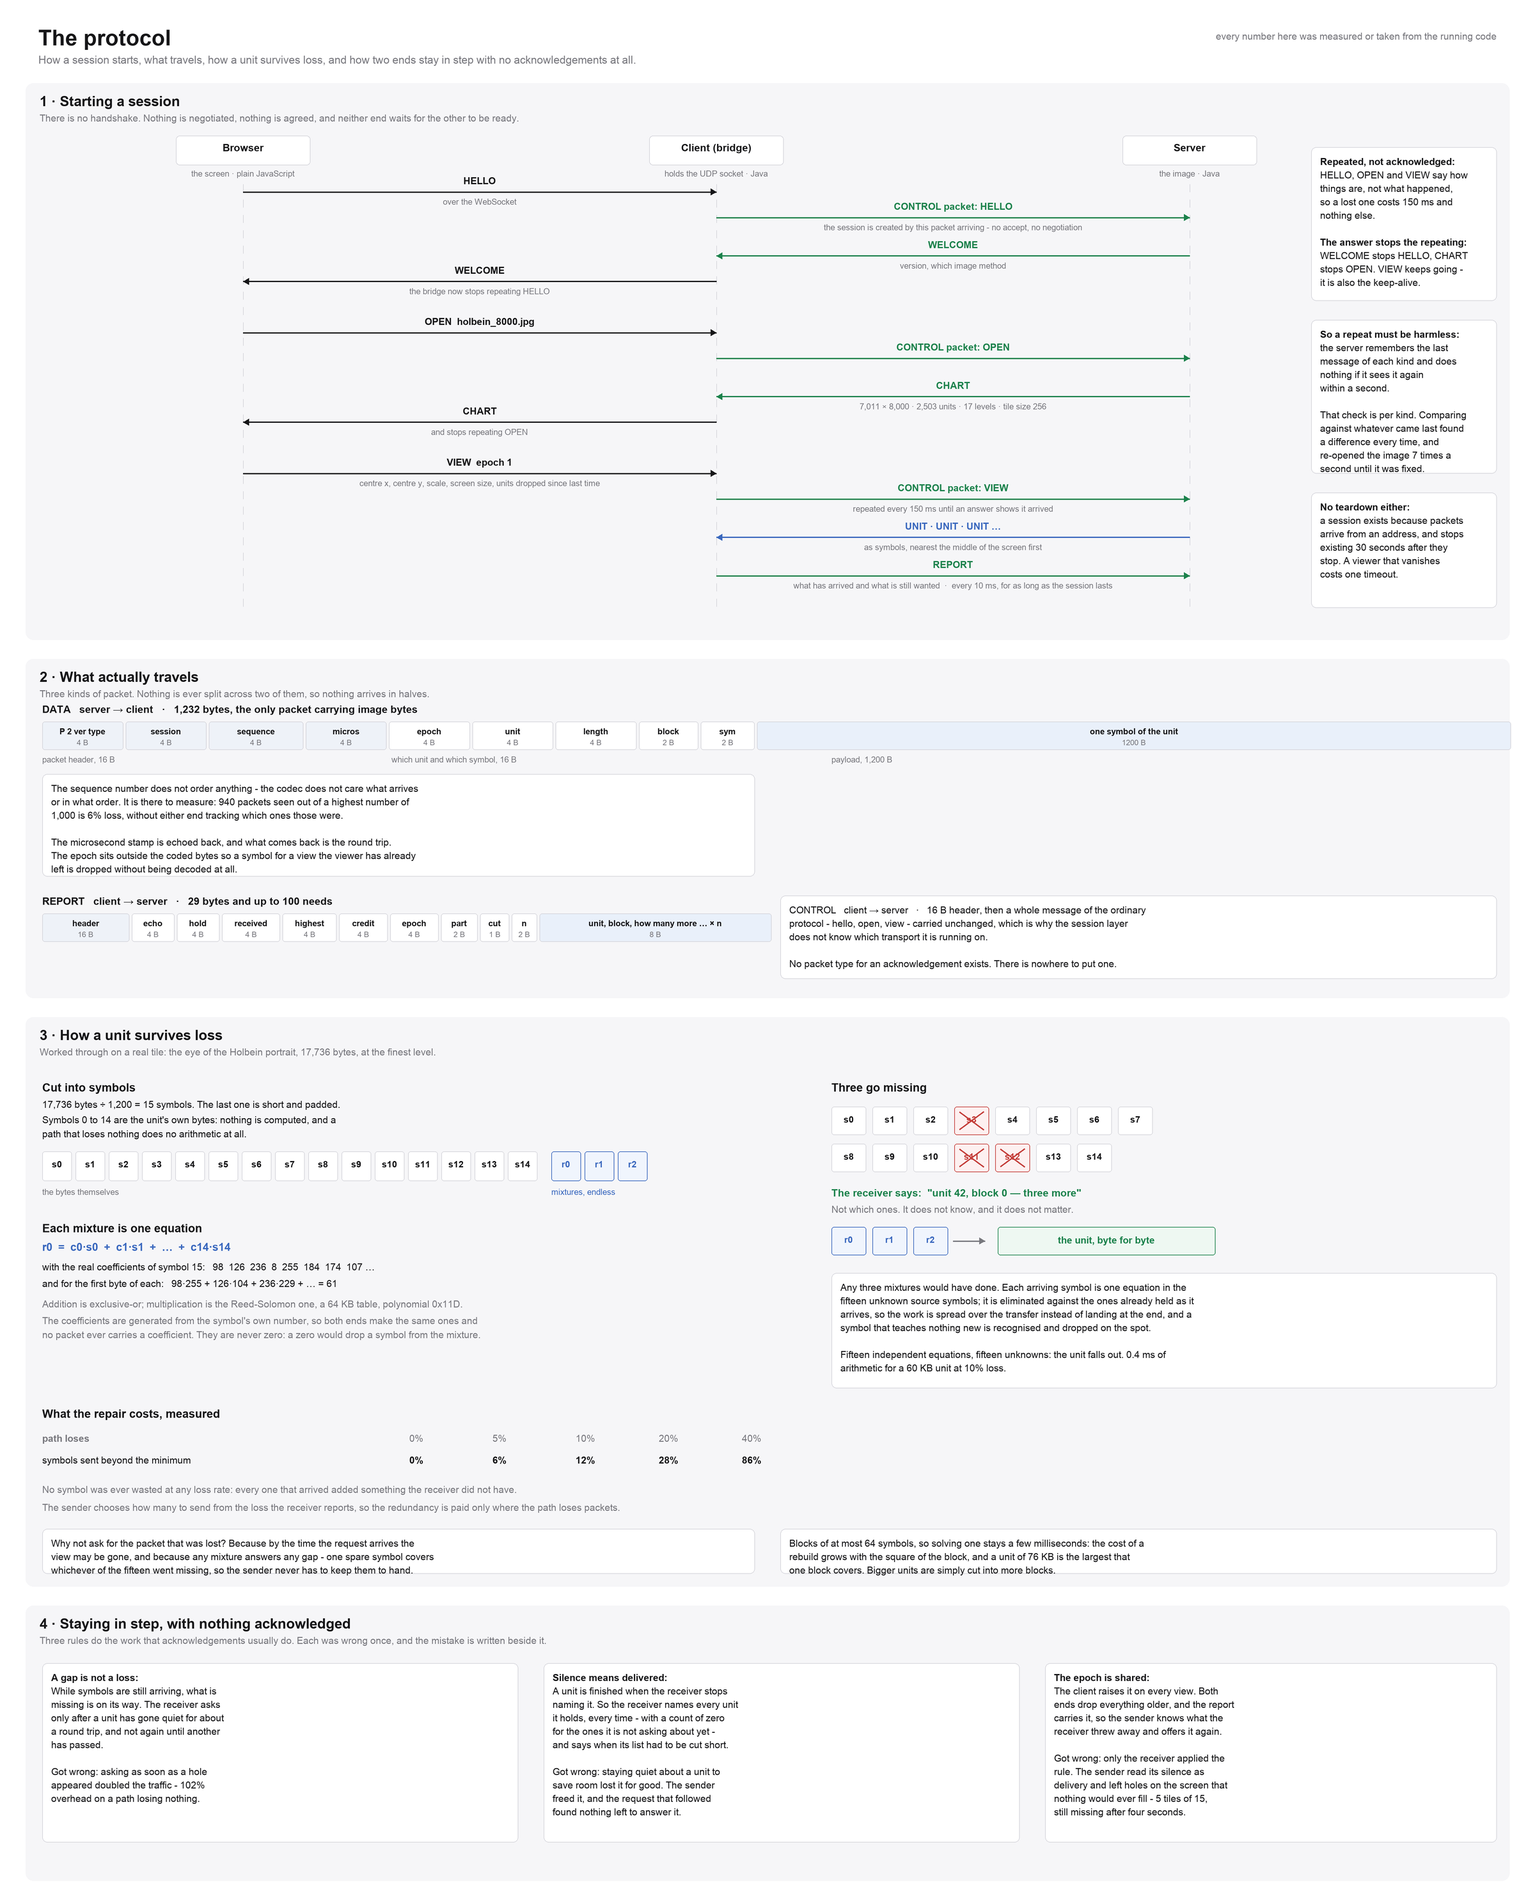
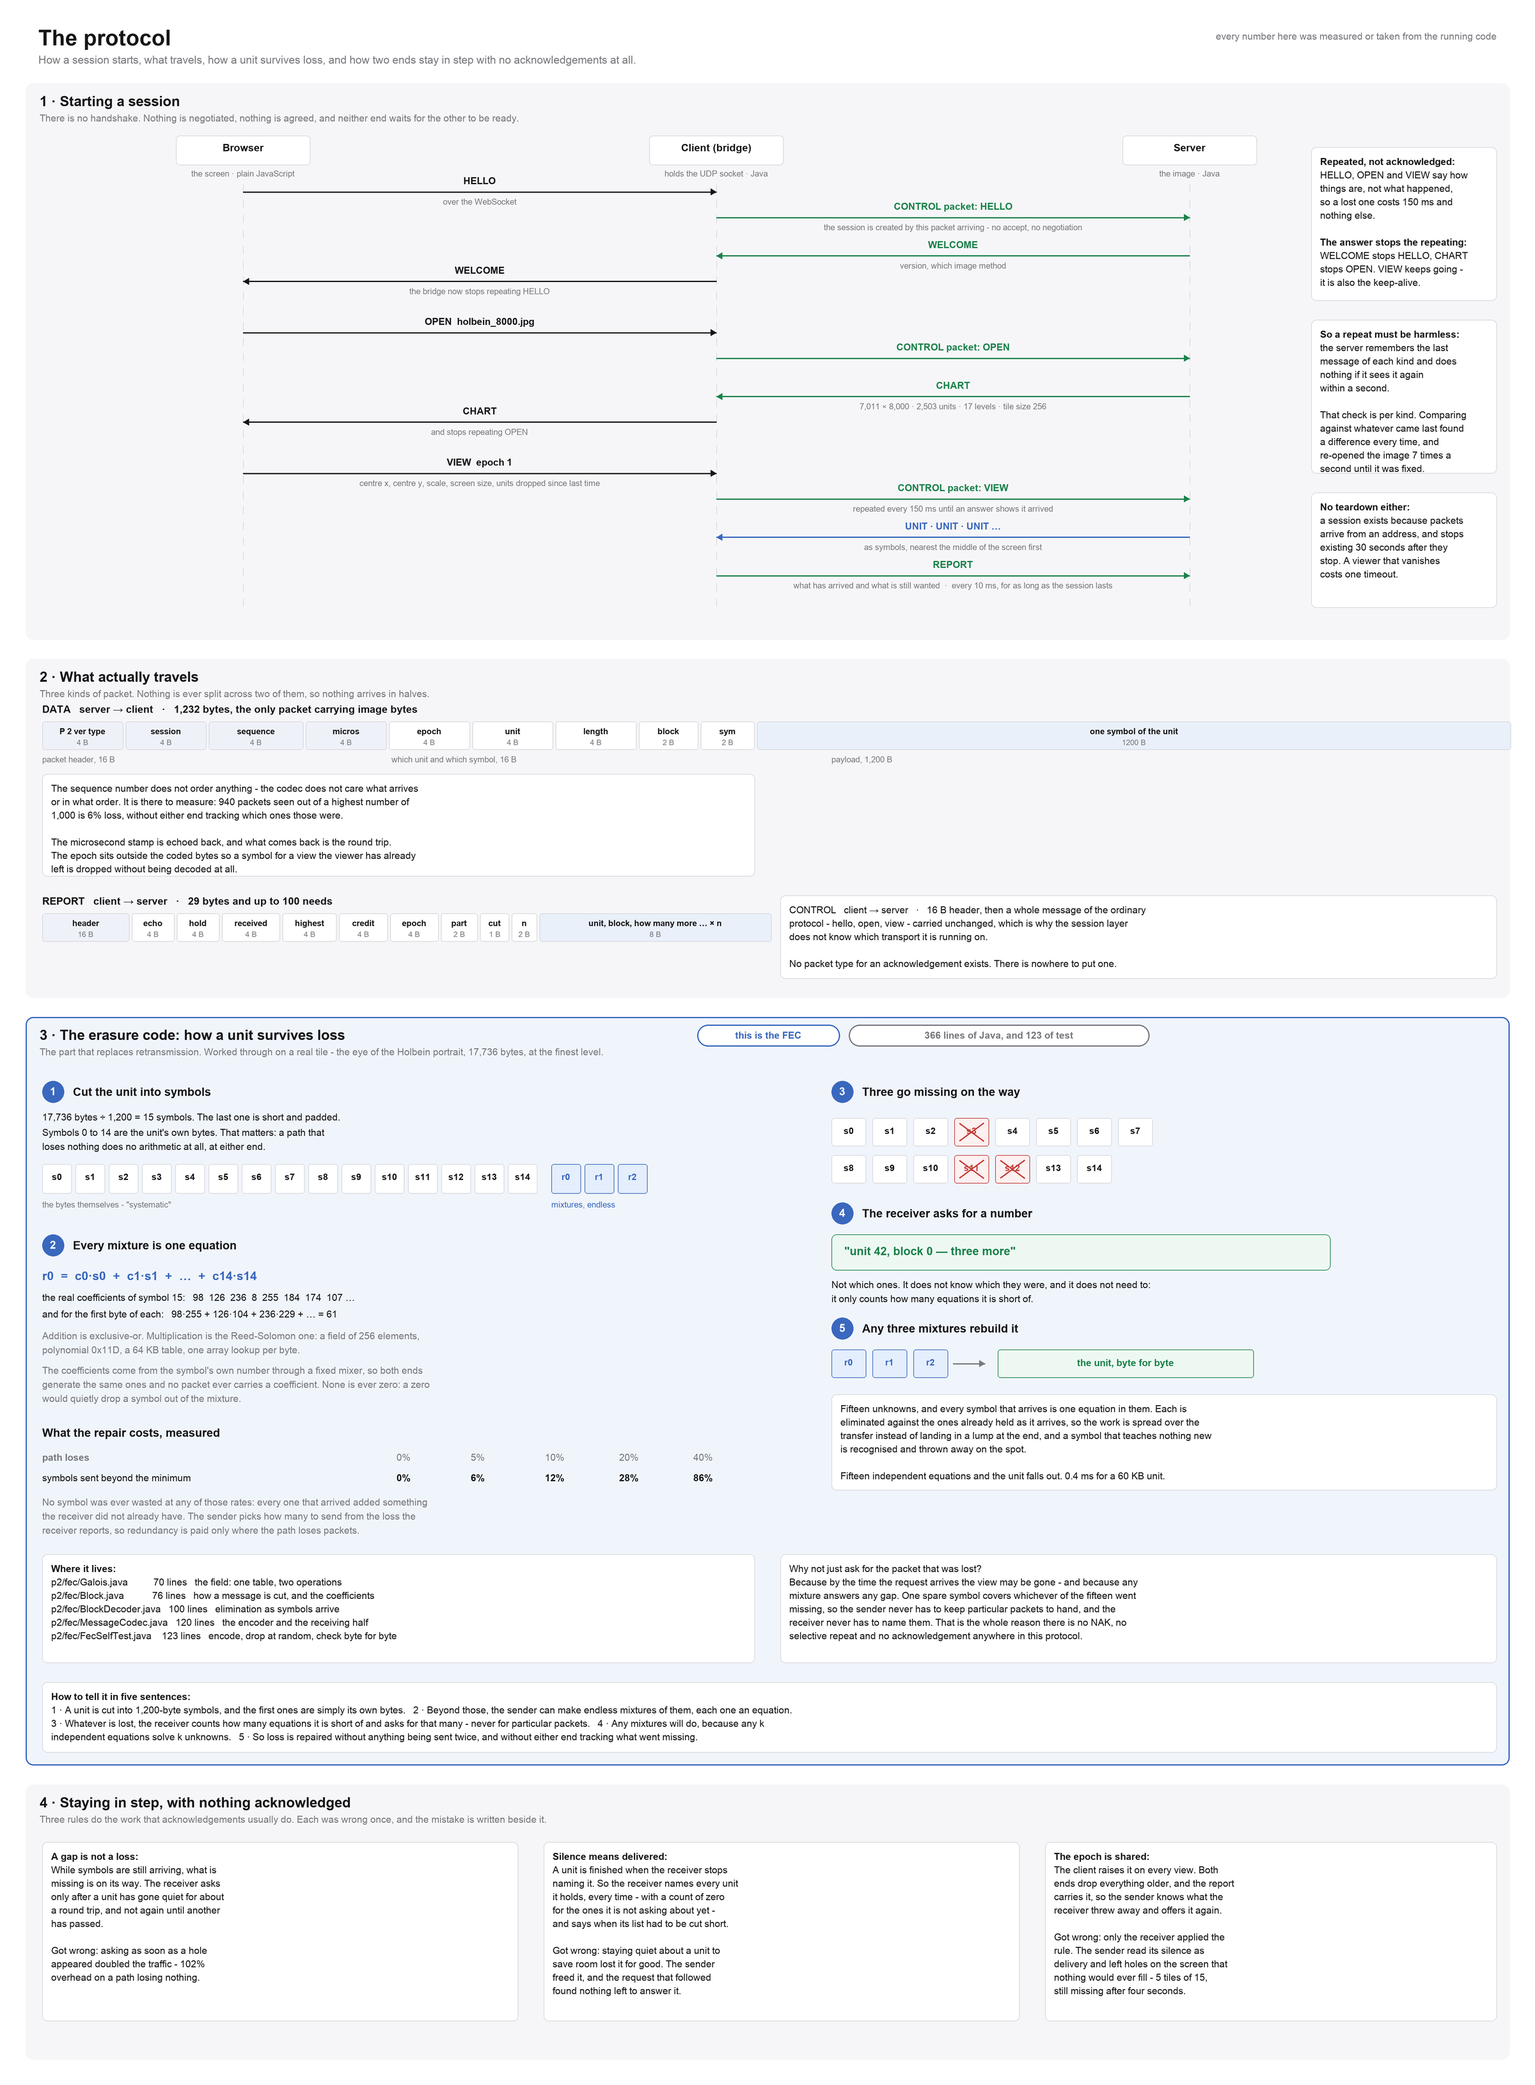
Make the erasure code the part of the figure you cannot miss
The section that replaces retransmission is now tinted, outlined and
badged, and it reads as five numbered beats: cut the unit into symbols,
every mixture is one equation, three go missing, the receiver asks for a
number, any three mixtures rebuild it. Each one is a sentence someone
can say out loud while pointing at it, and the last box is exactly that
- the whole mechanism in five sentences.

It also says where it lives: four files, 366 lines of Java, and the 123
that drop symbols at random and check the unit comes back byte for
byte.

diff --git a/app/tools/fig_protocol.py b/app/tools/fig_protocol.py
@@ -19,17 +19,33 @@ import sys
 sys.path.insert(0, os.path.dirname(os.path.abspath(__file__)))
 from fig_pipeline import BAND, BORROWED, DIM, INK, OURS, PAPER, RULE, Sheet  # noqa: E402
 
-W, H = 2400, 2950
+W, H = 2400, 3260
 LOST = (196, 62, 58)
 KEPT = (28, 130, 76)
 REPAIR = (58, 104, 190)
 WASH = (238, 242, 248)
 
 
-def band(sheet, y0, y1, number, title, subtitle):
-    sheet.rect((40, y0, W - 40, y1), outline=None, fill=BAND, radius=12)
+def band(sheet, y0, y1, number, title, subtitle, accent=False):
+    """A section. The one that matters most is tinted and outlined, so the eye finds it."""
+    sheet.rect((40, y0, W - 40, y1), outline=REPAIR if accent else None,
+               fill=(240, 245, 252) if accent else BAND, radius=12, width=2 if accent else 1)
     sheet.text((62, y0 + 16), f"{number} · {title}", size=22, bold=True)
     sheet.text((62, y0 + 46), subtitle, size=15, fill=DIM)
+
+
+def badge(sheet, x, y, text, colour=REPAIR):
+    width = 13 * len(text) + 28
+    sheet.rect((x, y, x + width, y + 34), outline=colour, fill=PAPER, radius=17, width=2)
+    sheet.text((x + width / 2, y + 8), text, size=15, bold=True, fill=colour, anchor="ma")
+    return x + width
+
+
+def step(sheet, x, y, number, title):
+    """A numbered beat of the walkthrough, so it can be told in order."""
+    sheet.rect((x, y, x + 34, y + 34), outline=REPAIR, fill=REPAIR, radius=17)
+    sheet.text((x + 17, y + 7), str(number), size=17, bold=True, fill=PAPER, anchor="ma")
+    sheet.text((x + 48, y + 7), title, size=18, bold=True)
 
 
 def note(sheet, box, lines, colour=DIM):
@@ -201,46 +217,55 @@ def main():
           "No packet type for an acknowledgement exists. There is nowhere to put one."])
 
     # ---------------------------------------------------------------- 3. FEC
-    band(sheet, 1590, 2480, "3", "How a unit survives loss",
-         "Worked through on a real tile: the eye of the Holbein portrait, 17,736 bytes, "
-         "at the finest level.")
+    band(sheet, 1590, 2760, "3", "The erasure code: how a unit survives loss",
+         "The part that replaces retransmission. Worked through on a real tile - the eye of the "
+         "Holbein portrait, 17,736 bytes, at the finest level.", accent=True)
+    at = badge(sheet, 1090, 1602, "this is the FEC")
+    badge(sheet, at + 14, 1602, "366 lines of Java, and 123 of test", colour=DIM)
 
-    sheet.text((66, 1690), "Cut into symbols", size=18, bold=True)
-    sheet.text((66, 1718), "17,736 bytes ÷ 1,200 = 15 symbols. The last one is short and padded.",
+    # ---- 1 cut
+    step(sheet, 66, 1690, 1, "Cut the unit into symbols")
+    sheet.text((66, 1738), "17,736 bytes ÷ 1,200 = 15 symbols. The last one is short and padded.",
                size=15)
-    sheet.text((66, 1742), "Symbols 0 to 14 are the unit's own bytes: nothing is computed, and a",
+    sheet.text((66, 1762), "Symbols 0 to 14 are the unit's own bytes. That matters: a path that",
                size=15)
-    sheet.text((66, 1764), "path that loses nothing does no arithmetic at all.", size=15)
+    sheet.text((66, 1784), "loses nothing does no arithmetic at all, at either end.", size=15)
 
     for i in range(15):
         x = 66 + i * 52
-        sheet.rect((x, 1800, x + 46, 1846), outline=RULE, fill=PAPER, radius=4)
-        sheet.text((x + 23, 1812), f"s{i}", size=14, bold=True, anchor="ma")
-    sheet.text((66, 1856), "the bytes themselves", size=13, fill=DIM)
+        sheet.rect((x, 1820, x + 46, 1866), outline=RULE, fill=PAPER, radius=4)
+        sheet.text((x + 23, 1832), f"s{i}", size=14, bold=True, anchor="ma")
+    sheet.text((66, 1876), "the bytes themselves - \"systematic\"", size=13, fill=DIM)
 
     for i in range(3):
         x = 66 + (15 + i) * 52 + 16
-        sheet.rect((x, 1800, x + 46, 1846), outline=REPAIR, fill=(240, 245, 253), radius=4)
-        sheet.text((x + 23, 1812), f"r{i}", size=14, bold=True, anchor="ma", fill=REPAIR)
-    sheet.text((66 + 15 * 52 + 16, 1856), "mixtures, endless", size=13, fill=REPAIR)
+        sheet.rect((x, 1820, x + 46, 1866), outline=REPAIR, fill=(228, 238, 252), radius=4)
+        sheet.text((x + 23, 1832), f"r{i}", size=14, bold=True, anchor="ma", fill=REPAIR)
+    sheet.text((66 + 15 * 52 + 16, 1876), "mixtures, endless", size=13, fill=REPAIR)
 
-    sheet.text((66, 1910), "Each mixture is one equation", size=18, bold=True)
-    sheet.text((66, 1940), "r0  =  c0·s0  +  c1·s1  +  …  +  c14·s14", size=17, bold=True, fill=REPAIR)
-    sheet.text((66, 1972), "with the real coefficients of symbol 15:   98  126  236  8  255  184  174  107 …",
+    # ---- 2 mix
+    step(sheet, 66, 1930, 2, "Every mixture is one equation")
+    sheet.text((66, 1984), "r0  =  c0·s0  +  c1·s1  +  …  +  c14·s14",
+               size=19, bold=True, fill=REPAIR)
+    sheet.text((66, 2020), "the real coefficients of symbol 15:   98  126  236  8  255  184  174  107 …",
                size=15)
-    sheet.text((66, 1998), "and for the first byte of each:   98·255 + 126·104 + 236·229 + … = 61",
+    sheet.text((66, 2046), "and for the first byte of each:   98·255 + 126·104 + 236·229 + … = 61",
                size=15)
-    sheet.text((66, 2030), "Addition is exclusive-or; multiplication is the Reed-Solomon one, "
-               "a 64 KB table, polynomial 0x11D.", size=15, fill=DIM)
-    sheet.text((66, 2056), "The coefficients are generated from the symbol's own number, so both "
-               "ends make the same ones and", size=15, fill=DIM)
-    sheet.text((66, 2078), "no packet ever carries a coefficient. They are never zero: a zero "
-               "would drop a symbol from the mixture.", size=15, fill=DIM)
+    sheet.text((66, 2080), "Addition is exclusive-or. Multiplication is the Reed-Solomon one: "
+               "a field of 256 elements,", size=15, fill=DIM)
+    sheet.text((66, 2102), "polynomial 0x11D, a 64 KB table, one array lookup per byte.",
+               size=15, fill=DIM)
+    sheet.text((66, 2134), "The coefficients come from the symbol's own number through a fixed "
+               "mixer, so both ends", size=15, fill=DIM)
+    sheet.text((66, 2156), "generate the same ones and no packet ever carries a coefficient. "
+               "None is ever zero: a zero", size=15, fill=DIM)
+    sheet.text((66, 2178), "would quietly drop a symbol out of the mixture.", size=15, fill=DIM)
 
-    sheet.text((1300, 1690), "Three go missing", size=18, bold=True)
+    # ---- 3 lose
+    step(sheet, 1300, 1690, 3, "Three go missing on the way")
     for i in range(15):
         x = 1300 + (i % 8) * 64
-        y = 1730 + (i // 8) * 58
+        y = 1748 + (i // 8) * 58
         lost = i in (3, 11, 12)
         sheet.rect((x, y, x + 54, y + 44), outline=LOST if lost else RULE,
                    fill=(253, 240, 240) if lost else PAPER, radius=4)
@@ -250,60 +275,80 @@ def main():
             sheet.line((x + 8, y + 8), (x + 46, y + 36), fill=LOST, width=2)
             sheet.line((x + 46, y + 8), (x + 8, y + 36), fill=LOST, width=2)
 
-    sheet.text((1300, 1856), "The receiver says:  \"unit 42, block 0 — three more\"",
-               size=16, bold=True, fill=OURS)
-    sheet.text((1300, 1882), "Not which ones. It does not know, and it does not matter.",
-               size=15, fill=DIM)
+    # ---- 4 ask
+    step(sheet, 1300, 1880, 4, "The receiver asks for a number")
+    sheet.rect((1300, 1930, 2080, 1986), outline=OURS, fill=(238, 248, 242), radius=8)
+    sheet.text((1320, 1946), "\"unit 42, block 0 — three more\"", size=18, bold=True, fill=OURS)
+    sheet.text((1300, 2000), "Not which ones. It does not know which they were, and it does not "
+               "need to:", size=15)
+    sheet.text((1300, 2022), "it only counts how many equations it is short of.", size=15)
 
+    # ---- 5 rebuild
+    step(sheet, 1300, 2060, 5, "Any three mixtures rebuild it")
     for i in range(3):
         x = 1300 + i * 64
-        sheet.rect((x, 1918, x + 54, 1962), outline=REPAIR, fill=(240, 245, 253), radius=4)
-        sheet.text((x + 27, 1930), f"r{i}", size=14, bold=True, anchor="ma", fill=REPAIR)
-    sheet.arrow((1490, 1940), (1540, 1940), fill=DIM)
-    sheet.rect((1560, 1918, 1900, 1962), outline=KEPT, fill=(238, 248, 242), radius=4)
-    sheet.text((1730, 1930), "the unit, byte for byte", size=15, bold=True, anchor="ma", fill=KEPT)
+        sheet.rect((x, 2110, x + 54, 2154), outline=REPAIR, fill=(228, 238, 252), radius=4)
+        sheet.text((x + 27, 2122), f"r{i}", size=14, bold=True, anchor="ma", fill=REPAIR)
+    sheet.arrow((1490, 2132), (1540, 2132), fill=DIM)
+    sheet.rect((1560, 2110, 1960, 2154), outline=KEPT, fill=(238, 248, 242), radius=4)
+    sheet.text((1760, 2122), "the unit, byte for byte", size=15, bold=True, anchor="ma", fill=KEPT)
 
-    note(sheet, (1300, 1990, 2340, 2170),
-         ["Any three mixtures would have done. Each arriving symbol is one equation in the",
-          "fifteen unknown source symbols; it is eliminated against the ones already held as it",
-          "arrives, so the work is spread over the transfer instead of landing at the end, and a",
-          "symbol that teaches nothing new is recognised and dropped on the spot.",
+    note(sheet, (1300, 2180, 2340, 2330),
+         ["Fifteen unknowns, and every symbol that arrives is one equation in them. Each is",
+          "eliminated against the ones already held as it arrives, so the work is spread over the",
+          "transfer instead of landing in a lump at the end, and a symbol that teaches nothing new",
+          "is recognised and thrown away on the spot.",
           "",
-          "Fifteen independent equations, fifteen unknowns: the unit falls out. 0.4 ms of",
-          "arithmetic for a 60 KB unit at 10% loss."])
+          "Fifteen independent equations and the unit falls out. 0.4 ms for a 60 KB unit."])
 
-    sheet.text((66, 2200), "What the repair costs, measured", size=18, bold=True)
+    # ---- the cost, and where it lives
+    sheet.text((66, 2230), "What the repair costs, measured", size=18, bold=True)
     columns = [("path loses", "0%", "5%", "10%", "20%", "40%"),
                ("symbols sent beyond the minimum", "0%", "6%", "12%", "28%", "86%")]
     for row, (head, *values) in enumerate(columns):
-        y = 2240 + row * 34
+        y = 2270 + row * 32
         sheet.text((66, y), head, size=15, bold=(row == 0), fill=DIM if row == 0 else INK)
         for col, value in enumerate(values):
-            sheet.text((640 + col * 130, y), value, size=15,
+            sheet.text((620 + col * 116, y), value, size=15,
                        bold=(row == 1), fill=INK if row else DIM)
-    sheet.text((66, 2320),
-               "No symbol was ever wasted at any loss rate: every one that arrived added "
-               "something the receiver did not have.", size=15, fill=DIM)
-    sheet.text((66, 2348),
-               "The sender chooses how many to send from the loss the receiver reports, so the "
-               "redundancy is paid only where the path loses packets.", size=15, fill=DIM)
+    sheet.text((66, 2340), "No symbol was ever wasted at any of those rates: every one that "
+               "arrived added something", size=15, fill=DIM)
+    sheet.text((66, 2362), "the receiver did not already have. The sender picks how many to send "
+               "from the loss the", size=15, fill=DIM)
+    sheet.text((66, 2384), "receiver reports, so redundancy is paid only where the path loses "
+               "packets.", size=15, fill=DIM)
 
-    note(sheet, (66, 2390, 1180, 2460),
-         ["Why not ask for the packet that was lost? Because by the time the request arrives the",
-          "view may be gone, and because any mixture answers any gap - one spare symbol covers",
-          "whichever of the fifteen went missing, so the sender never has to keep them to hand."])
+    note(sheet, (66, 2430, 1180, 2600),
+         ["Where it lives:",
+          "p2/fec/Galois.java          70 lines   the field: one table, two operations",
+          "p2/fec/Block.java           76 lines   how a message is cut, and the coefficients",
+          "p2/fec/BlockDecoder.java   100 lines   elimination as symbols arrive",
+          "p2/fec/MessageCodec.java   120 lines   the encoder and the receiving half",
+          "p2/fec/FecSelfTest.java    123 lines   encode, drop at random, check byte for byte"])
 
-    note(sheet, (1220, 2390, 2340, 2460),
-         ["Blocks of at most 64 symbols, so solving one stays a few milliseconds: the cost of a",
-          "rebuild grows with the square of the block, and a unit of 76 KB is the largest that",
-          "one block covers. Bigger units are simply cut into more blocks."])
+    note(sheet, (1220, 2430, 2340, 2600),
+         ["Why not just ask for the packet that was lost?",
+          "Because by the time the request arrives the view may be gone - and because any",
+          "mixture answers any gap. One spare symbol covers whichever of the fifteen went",
+          "missing, so the sender never has to keep particular packets to hand, and the",
+          "receiver never has to name them. That is the whole reason there is no NAK, no",
+          "selective repeat and no acknowledgement anywhere in this protocol."])
+
+    note(sheet, (66, 2630, 2340, 2740),
+         ["How to tell it in five sentences:",
+          "1 · A unit is cut into 1,200-byte symbols, and the first ones are simply its own bytes.   "
+          "2 · Beyond those, the sender can make endless mixtures of them, each one an equation.",
+          "3 · Whatever is lost, the receiver counts how many equations it is short of and asks for "
+          "that many - never for particular packets.   4 · Any mixtures will do, because any k",
+          "independent equations solve k unknowns.   5 · So loss is repaired without anything "
+          "being sent twice, and without either end tracking what went missing."])
 
     # ---------------------------------------------------------------- 4. staying in step
-    band(sheet, 2510, 2940, "4", "Staying in step, with nothing acknowledged",
+    band(sheet, 2790, 3220, "4", "Staying in step, with nothing acknowledged",
          "Three rules do the work that acknowledgements usually do. Each was wrong once, and "
          "the mistake is written beside it.")
 
-    note(sheet, (66, 2600, 810, 2880),
+    note(sheet, (66, 2880, 810, 3160),
          ["A gap is not a loss:",
           "While symbols are still arriving, what is",
           "missing is on its way. The receiver asks",
@@ -315,7 +360,7 @@ def main():
           "appeared doubled the traffic - 102%",
           "overhead on a path losing nothing."])
 
-    note(sheet, (850, 2600, 1594, 2880),
+    note(sheet, (850, 2880, 1594, 3160),
          ["Silence means delivered:",
           "A unit is finished when the receiver stops",
           "naming it. So the receiver names every unit",
@@ -328,7 +373,7 @@ def main():
           "freed it, and the request that followed",
           "found nothing left to answer it."])
 
-    note(sheet, (1634, 2600, 2340, 2880),
+    note(sheet, (1634, 2880, 2340, 3160),
          ["The epoch is shared:",
           "The client raises it on every view. Both",
           "ends drop everything older, and the report",
